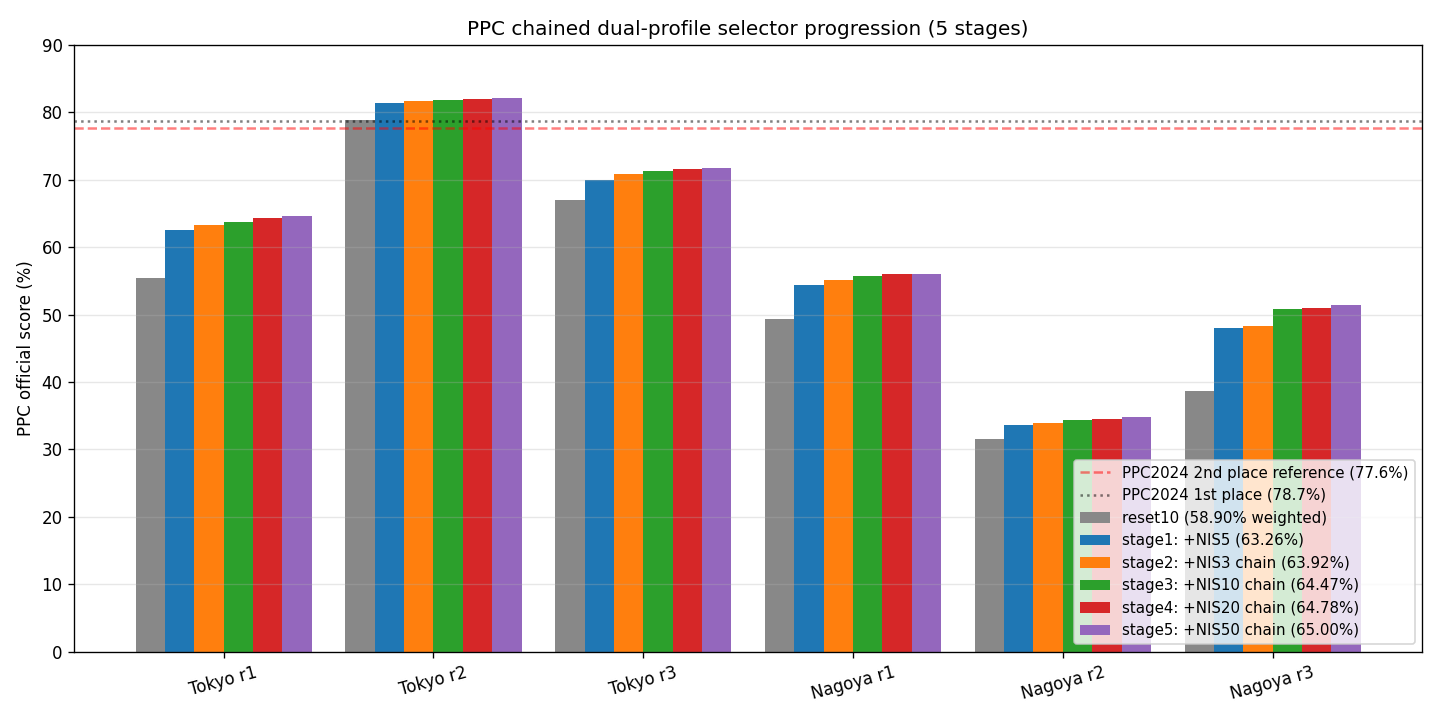
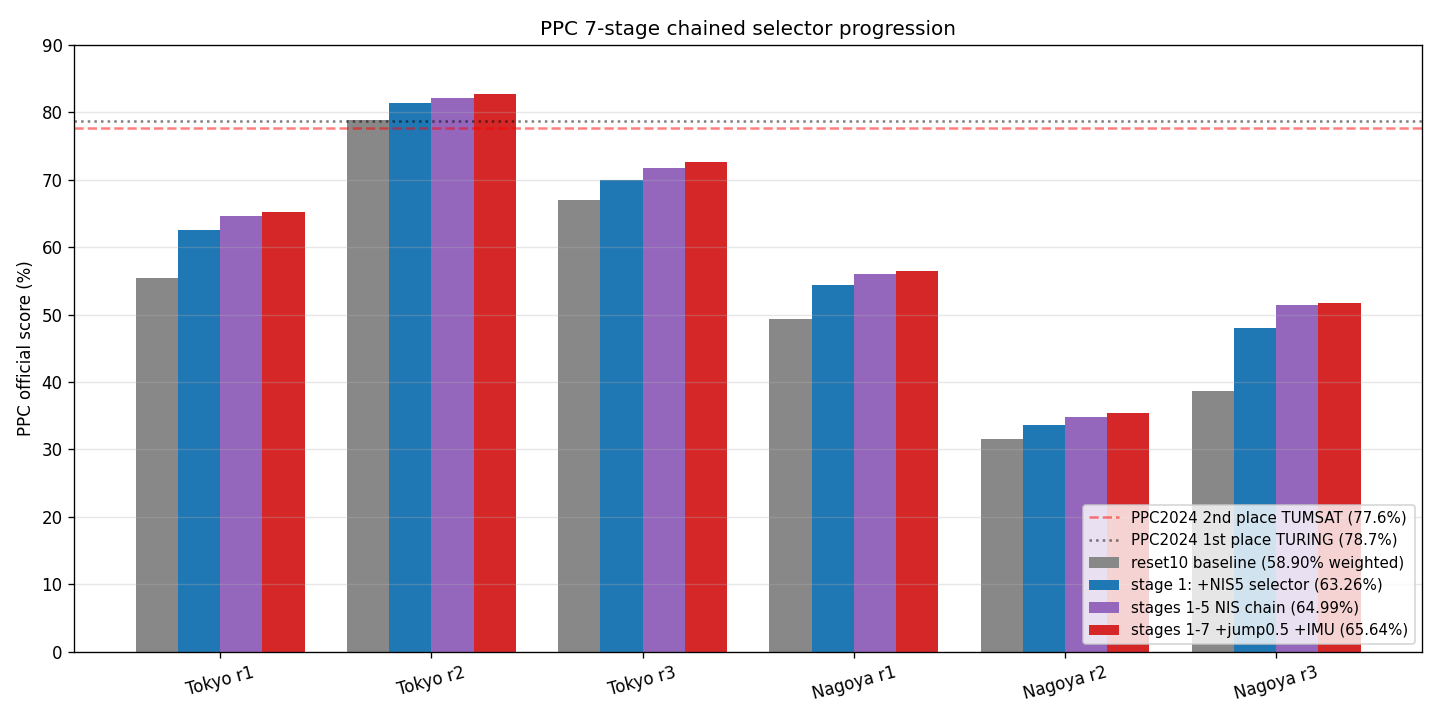
Extend chained selector to 65.644% with jump0.5 + IMU bridge
Extends the chained dual-profile selector recipe from commit 1399138
with two more stages, pushing weighted PPC official score from 64.995%
(stage 5 NIS chain) to 65.644%. Gap to PPC2024 second place (77.6%)
narrows from 12.61 pp to 11.96 pp, breaking below the 12 pp mark for
the first time on this branch.

Progression:
  stage 6: stage5  -> +jump0.5 dual selector = 65.103% (+6.21 pp)
           rule: status_transition == FLOAT->FIXED (100% precision, +50.0 m)
  stage 7: stage6  -> +IMU bridge (fy1_lx1)   = 65.644% (+6.75 pp)
           rule: status_transition == NO_SOLUTION->FLOAT (100% precision, +251.0 m)

The IMU bridge stage is the standout: it fills no-solution dropouts
the NIS gate cohort cannot touch (NIS is gated on RTK update quality;
no-solution epochs have no update). The recipe reuses the existing
output/ppc_*_imu_bridge_fy1_lx1.pos files produced by
run_ppc_imu_dropout_bridge_matrix.py without regeneration.

A stage 8 probe with three CV-bridge variants (gap10_age2,
innov_fixed_1, tele_fixed_ratio3) added only ~+8 m each and is
omitted. The chain appears saturated at stage 7 given the current
candidate pool.

docs/benchmarks.md gains two rows in the progression table. README.md
updates the summary sentence and the headline gap number. Scorecard
redrawn with NIS chain + jump0.5 + IMU bars.

diff --git a/README.md b/README.md
@@ -306,14 +306,18 @@ weighted score moves **58.90% -> 63.26%** (**+2,019.8 m**, **+4.36 pp**) vs
 reset10, all six runs gain, and both Positioning (+0.43 pp) and Fix (+6.59 pp)
 improve. See `docs/benchmarks.md` for the ranked rule table and scorecards.
 
-Chaining five dual-profile selectors back-to-back (NIS5 → NIS3 → NIS10 →
-NIS20 → NIS50) extends this further to **58.90% -> 65.00%**
-(**+2,824.5 m**, **+6.10 pp**). Each later stage applies a single-rule
-selector on the previous hybrid using a different NIS-threshold candidate,
-capturing gain segments the earlier stages missed. The marginal gain per
-stage declines from +4.36 pp (stage 1) to +0.21 pp (stage 5), so further
-stages are low value. See `docs/benchmarks.md` for the per-stage rules and
-the progression scorecard.
+Chaining seven dual-profile selectors back-to-back (five NIS-threshold
+stages NIS5 → NIS3 → NIS10 → NIS20 → NIS50, then a jump0.5 dual-selector
+stage, then an IMU-bridge stage filling no-solution dropouts) extends
+this further to **58.90% -> 65.64%** (**+3,125.5 m**, **+6.75 pp**).
+Each later stage applies a single-rule selector on the previous hybrid
+using a different candidate family, capturing gain segments the earlier
+stages missed. The marginal gain per stage declines from +4.36 pp
+(stage 1) to +0.11 pp (stage 6), then jumps back up to +0.54 pp for the
+IMU bridge stage (which fills gaps the NIS stages cannot touch). Gap to
+the PPC2024 public second-place reference (77.6%) narrows from 18.70 pp
+at reset10 to 11.96 pp after stage 7. See `docs/benchmarks.md` for the
+per-stage rules and the progression scorecard.
 
 Across all six reset10 replays, a best-of GNSS++/RTKLIB oracle only reaches
 **60.08%** weighted official score, adding **545.5 m** (**+1.18 pp**) over

diff --git a/docs/benchmarks.md b/docs/benchmarks.md
@@ -322,11 +322,17 @@ progression:
 | 3 | stage2 hybrid | NIS10 | `FIXED AND baseline_ratio ≤ 2.5` | **64.473%** | +5.575 pp |
 | 4 | stage3 hybrid | NIS20 | `baseline FLOAT AND candidate_obs ≥ 14` | **64.785%** | +5.887 pp |
 | 5 | stage4 hybrid | NIS50 | `FIXED AND baseline_ratio ≤ 2.7` | **64.995%** | +6.097 pp |
+| 6 | stage5 hybrid | jump0.5 dual selector | `FLOAT→FIXED` | **65.103%** | +6.205 pp |
+| 7 | stage6 hybrid | IMU bridge (fy1_lx1) | `NO_SOLUTION→FLOAT` | **65.644%** | +6.747 pp |
 
-Five selector stages add **+6.097 pp / +2 824.5 m** versus reset10, with
+Seven selector stages add **+6.747 pp / +3 125.5 m** versus reset10, with
 every stage strictly non-negative per-run. The gap to PPC2024 second place
-(77.6%) narrows to **12.61 pp**. Marginal gain per stage declines from
-+4.36 pp (stage 1) to +0.21 pp (stage 5), so further stages are low value.
+(77.6%) narrows to **11.96 pp**. Marginal gain per stage declines from
++4.36 pp (stage 1) to +0.11 pp (stage 6), with an IMU-bridge stage 7
+recovering another +0.54 pp by filling no-solution dropouts with dead-
+reckoned FLOAT solutions. Further stages with additional CV-bridge
+candidates add only ~+0.02 pp (tested with `gap10_age2`,
+`innov_fixed_1`, `tele_fixed_ratio3` at stage 8) so are omitted.
 
 The chain is deployable: each stage is a deterministic single-rule apply
 using `scripts/apply_ppc_dual_profile_selector.py` with the rank 1 rule
